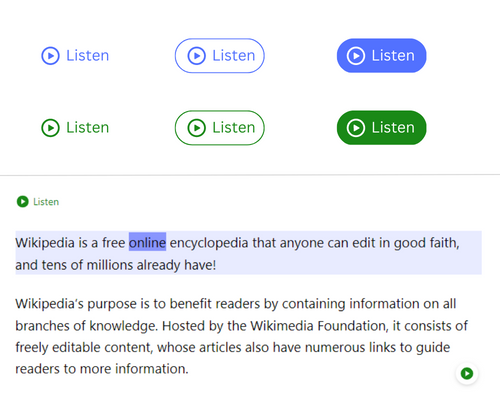
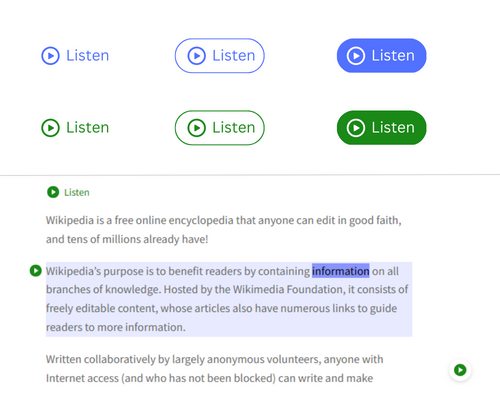
demo updated according to plugin verion 1.2.0

Changed region(s): [[0.03, 0.45, 0.93, 0.96], [0.9, 0.9, 0.96, 0.96]]

diff --git a/src/components/hero-section.jsx b/src/components/hero-section.jsx
@@ -14,11 +14,11 @@ export function HeroSection() {
                     <div className="mt-10 flex gap-x-4 justify-center md:justify-start">
                         <a href="/documentation.pdf" className="rounded-md px-3.5 py-2 text-sm font-semibold text-indigo-600 border-solid border-2 border-indigo-600 hover:bg-indigo-600 hover:text-white self-center" target="_blank" rel="noreferrer noopener">Documentation</a>
                         
-                        <a href="https://codecanyon.net/user/hrtdesign/portfolio" className="rounded-md bg-indigo-600 px-3.5 py-2 text-sm font-semibold text-white shadow-sm hover:bg-indigo-500 focus-visible:outline focus-visible:outline-2 focus-visible:outline-offset-2 focus-visible:outline-indigo-600 self-center border-transparent border-2">Buy Now</a>
+                        <a href="https://demo.devdiggers.com/woocommerce/readaloud/wikipedia/" className="rounded-md bg-indigo-600 px-3.5 py-2 text-sm font-semibold text-white shadow-sm hover:bg-indigo-500 focus-visible:outline focus-visible:outline-2 focus-visible:outline-offset-2 focus-visible:outline-indigo-600 self-center border-transparent border-2">Live Demo</a>
                     </div>
                 </div>
                 <div className="hero-image-wrap w-full md:w-2/4">
-                    <img src="images/hero.png" alt="ReadAloud" className="ml-auto shadow-lg rounded" loading="lazy"/>
+                    <img src="/readaloud/images/hero.png" alt="ReadAloud" className="ml-auto shadow-lg rounded" loading="lazy"/>
                 </div>
             </div>
         </section>

diff --git a/src/components/header.jsx b/src/components/header.jsx
@@ -3,7 +3,7 @@ export function Header() {
         <header className="shadow-sm sticky top-0 bg-white">
             <div className="container mx-auto flex justify-between">
                 <div className="header-logo">
-                    <img src="images/logo.jpg" height={'60'} width={'60'} alt={'HRT Design'}/>
+                    <img src="/readaloud/images/logo.jpg" height={'60'} width={'60'} alt={'HRT Design'}/>
                 </div>
                 <a href="https://codecanyon.net/user/hrtdesign/portfolio" className="rounded-md bg-indigo-600 px-3.5 py-2 text-sm font-semibold text-white shadow-sm hover:bg-indigo-500 focus-visible:outline focus-visible:outline-2 focus-visible:outline-offset-2 focus-visible:outline-indigo-600 self-center border-transparent border-2">Buy Now</a>
             </div>

diff --git a/src/components/features.jsx b/src/components/features.jsx
@@ -7,6 +7,7 @@ export function Features() {
                     <li>Allows users to listen to your blog content instead of reading it.</li>
                     <li>Highlights the spoken words in real-time, so users can follow along with ease.</li>
                     <li>Lets users pause and resume the speech playback at any time.</li>
+                    <li>Auto scroll on listen paragraph/heading.</li>
                     <li>Provides a more engaging user experience for your audience.</li>
                     <li>Helps you meet accessibility standards by providing a user-friendly tool for people with visual impairments or reading difficulties.</li>
                     <li>Compatible with all major WordPress themes and plugins.</li>

diff --git a/src/components/settings.jsx b/src/components/settings.jsx
@@ -1,7 +1,7 @@
 export function Settings() {
     return(
         <section className="container mx-auto flex gap-y-20  mt-[80px] flex-wrap">
-            <img src="images/admin-settings.png" alt="Admin Settings" loading="lazy" className="md:w-1/2 shadow-md w-full"/>
+            <img src="/readaloud/images/admin-settings.png" alt="Admin Settings" loading="lazy" className="md:w-1/2 shadow-md w-full"/>
             <div className="self-center md:w-1/2 w-full md:pl-[40px] sm:pl-[0px]">
                 <h2 className={'text-3xl font-semibold tracking-tight text-gray-900 sm:text-4xl'}>Admin Settings</h2>
                 <ul className={'mt-[30px] list-disc text-lg max-w-screen-md mx-auto flex flex-col gap-y-3 pl-[20px]'}>

diff --git a/public/index.html b/public/index.html
@@ -9,7 +9,7 @@
       name="description"
       content="Web site created using create-react-app"
     />
-    <link rel="icon" href="images/logo.jpg" sizes="80x80" />
+    <link rel="icon" href="%PUBLIC_URL%/images/logo.jpg" sizes="80x80" />
     <!--
       manifest.json provides metadata used when your web app is installed on a
       user's mobile device or desktop. See https://developers.google.com/web/fundamentals/web-app-manifest/
